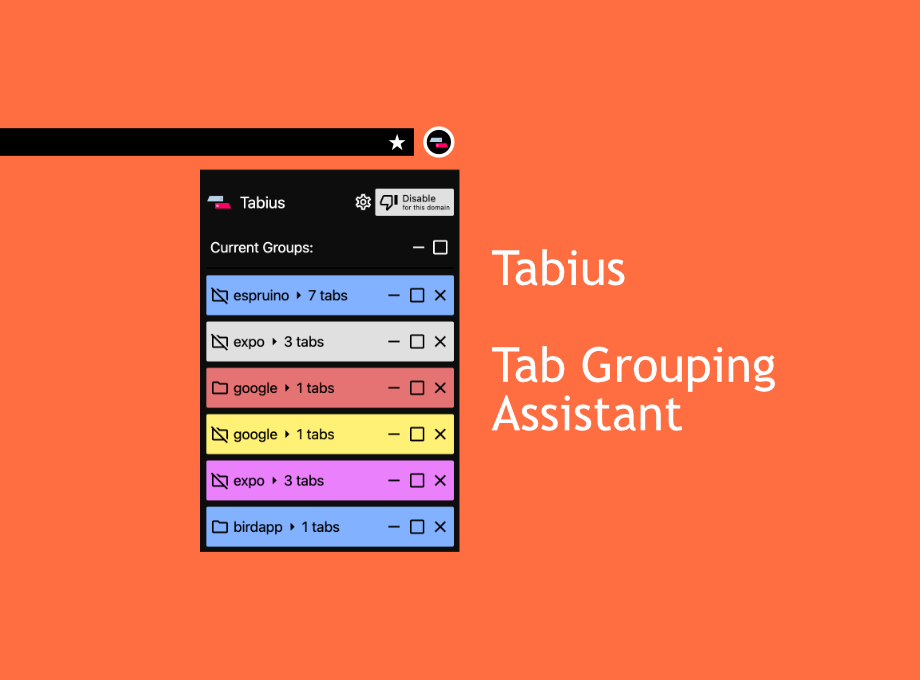
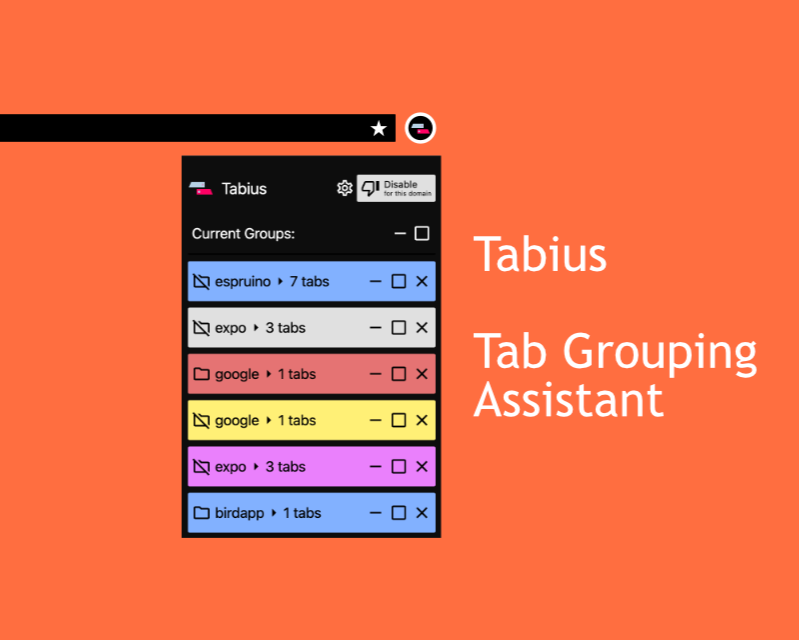
LOTS of changes before deploy

Changed region(s): [[0.0, 0.1562, 0.9612, 0.8438]]

diff --git a/data/carouselData.ts b/data/carouselData.ts
@@ -36,7 +36,7 @@ export const carouselData: CarouselItem[] = [
 	{
 		id: 0,
 		title: "Tabius",
-		heroThumb: "/assets/tabius/tabius-hero.png",
+		heroThumb: "/assets/tabius/tabius.jpeg",
 		icon: "/assets/tabius/tabius-logo.jpeg",
 		description: "Tab Grouping Assistant for Chrome and Microsoft Edge",
 		color: "#B6D1E4",
@@ -102,6 +102,55 @@ export const carouselData: CarouselItem[] = [
 			{
 				path: "/assets/trilby/ts4.webp",
 				description: "this is another screenshot description",
+			},
+		],
+		featurelist: [
+			{
+				title: "See What's Happening in Hacker News",
+				description: "Read the top and latest posts from HN, and many more.",
+			},
+			{
+				title: "Dark Mode",
+				description:
+					"Dark mode for your night time viewing. Can automatically sync with your system.",
+			},
+			{
+				title: "Beautifully Crafted Skins",
+				description:
+					"Six meticulously picked color skins. Pick whichever you like and sync with Light/Dark Mode.",
+			},
+			{
+				title: "Powerful Search Features",
+				description:
+					"Search HN posts powered by Algolia - just like the HN web. Sort by date, and filter by post type.",
+			},
+			{
+				title: "Highly Customizable",
+				description: "Make the app look like the way you want.",
+			},
+			{
+				title: "Read History",
+				description: "Keep track of your last read articles.",
+			},
+			{
+				title: "Profile View",
+				description:
+					"View yours and others' profile and their latest activities.",
+			},
+			{
+				title: "Read Comments in Great Details",
+				description:
+					"Trilby was created with reading comments in mind. If you're like me who uses HN mainly to read comments, Trilby is the app for you.",
+			},
+			{
+				title: "Login Functions",
+				description:
+					"Use features like commenting, upvoting, and posting new stories that require you to login right from the app.",
+			},
+			{
+				title: "Native Links Support",
+				description:
+					"Open and read native HN links within the app itself. Look out for that Orange link.",
 			},
 		],
 	},

diff --git a/src/screens/About.tsx b/src/screens/About.tsx
@@ -3,7 +3,45 @@ import type { Component } from "solid-js";
 import styles from "./HomeScreen.module.css";
 
 const About: Component = () => {
-	return <div class={styles.App}>About</div>;
+	return (
+		<div class={styles.about}>
+			<h1>About Failab</h1>
+			<p>
+				Failab is the home for projects I make during my weekends and holidays.
+				Failab is NOT a registered trade entity. The dream is to convert it to
+				my own company in the future. Hopefully, one day it will generate enough
+				revenue for that.
+			</p>
+			<p>
+				I am currently based in Munich, Germany. I am the sole developer behind
+				these apps. Most of my apps are completely free. Failab apps never
+				collect any data or show ads.
+			</p>
+			<p>
+				The apps I made were created out of my own necessities. As I work full
+				time and have a big wish list for new apps, I do not have enough time to
+				revisit individual apps quite often. That is why I make sure the first
+				release(s) have the most features and the least bugs. Nonetheless, I
+				keep my apps up-to-date. The changelogs are the testament to that.
+			</p>
+			<p>
+				I love hearing your feedback. As I do not get much revenue from the
+				apps, your feedback and kind words are the fuel that keeps me going. If
+				you have anything to share, feel free to{" "}
+				<a href="/contact">contact me.</a>
+			</p>
+			<p>
+				If you want to keep updated and learn about new apps being released, you
+				can also{" "}
+				<a href="https://twitter.com/faisalbahmed" target="_blank">
+					follow me on Twitter
+				</a>{" "}
+				and other <a href="/contact">social networks</a>.
+			</p>
+			<h4>Love</h4>
+			<h4>Faisal</h4>
+		</div>
+	);
 };
 
 export default About;

diff --git a/src/components/Carousel.tsx b/src/components/Carousel.tsx
@@ -49,14 +49,6 @@ export const GetStoreButton: Component<StoreItems> = ({ storeType, link }) => {
 	);
 };
 
-// const getImageSource = (
-// 	url: string
-// ) => {
-
-// 	import image from url
-
-// };
-
 const Carousel: Component = () => {
 	const [selectedAppId, setSelectedAppId] = createSignal<number>(0);
 
@@ -64,7 +56,6 @@ const Carousel: Component = () => {
 
 	const interval = () => {
 		intervalID = setInterval(() => {
-			// console.log("currentID: ", selectedAppId());
 			if (selectedAppId() === carouselData.length - 1) {
 				setSelectedAppId(0);
 			} else {
@@ -91,7 +82,18 @@ const Carousel: Component = () => {
 					class={styles.carouselDetails}
 					style={{ color: carouselData[selectedAppId()].fontColor ?? "white" }}>
 					<h1>{carouselData[selectedAppId()].title}</h1>
-					<p>{carouselData[selectedAppId()].description}</p>
+					<p>
+						{carouselData[selectedAppId()].description} <br />
+						<a
+							style={{
+								color: carouselData[selectedAppId()].fontColor ?? "white",
+							}}
+							href={`/app/${carouselData[
+								selectedAppId()
+							].title.toLowerCase()}`}>
+							Learn more -&gt;{" "}
+						</a>{" "}
+					</p>
 					<div class={styles.storeLinks}>
 						<For each={carouselData[selectedAppId()].storeLinks}>
 							{(item) => GetStoreButton(item)}
@@ -133,7 +135,7 @@ export const StripCard: Component<{
 			onClick={() => setSelectedID && setSelectedID(id)}
 			style={{
 				"background-color":
-					selectedID && selectedID() === id ? "#fae7e1" : "white",
+					selectedID && selectedID() === id ? "#BBDEFB" : "white",
 			}}>
 			<img src={logo} />
 			<div class={styles.stripDetails}>

diff --git a/src/components/Footer.tsx b/src/components/Footer.tsx
@@ -13,8 +13,20 @@ const Footer: Component<{}> = (props) => {
 	return (
 		<div class={styles.container}>
 			<div class={styles.logoContainer}>
-				<img class={styles.socialLogo} src={twitter} />
-				<img class={styles.socialLogo} src={paypal} />
+				<img
+					onClick={() =>
+						window.open("https://twitter.com/failab_eu", "_blank").focus()
+					}
+					class={styles.socialLogo}
+					src={twitter}
+				/>
+				<img
+					onClick={() =>
+						window.open("https://paypal.me/FaisalDE", "_blank").focus()
+					}
+					class={styles.socialLogo}
+					src={paypal}
+				/>
 			</div>
 			<div class={styles.links}>
 				<Link class={styles.link} href="/about">
@@ -23,14 +35,14 @@ const Footer: Component<{}> = (props) => {
 				<Link class={styles.link} href="/contact">
 					Contact
 				</Link>
-				<Link class={styles.link} href="/contact">
+				{/* <Link class={styles.link} href="/contact">
 					Imprint
-				</Link>
+				</Link> */}
 			</div>
 			<div class={styles.foot}>
 				<div class={styles.copyright}>
-					<p>FAILAB {date}</p>
-					<p>MUNICH, DE</p>
+					<p>© FAILAB {date}</p>
+					<p>Made with ♥ in Munich</p>
 				</div>
 				<img src={munich} />
 			</div>

diff --git a/src/components/SocialButton.tsx b/src/components/SocialButton.tsx
@@ -2,12 +2,25 @@ import type { Component } from "solid-js";
 
 import styles from "./SocialButton.module.css";
 
-const SocialButton: Component<{ title: string; color: string }> = ({
-	title,
-	color,
-}) => {
+const SocialButton: Component<{
+	title: string;
+	color: string;
+	toExternal?: string;
+	toInternal?: string;
+}> = ({ title, color, toExternal, toInternal }) => {
+	function handleClick() {
+		if (toExternal) {
+			window.open(toExternal, "_blank").focus();
+			return;
+		}
+		if (toInternal) window.location = `/${toInternal}`;
+	}
+
 	return (
-		<div class={styles.socialButton} style={{ "border-color": color }}>
+		<div
+			class={styles.socialButton}
+			onclick={handleClick}
+			style={{ "border-color": color }}>
 			<p style={{ color: color }}>{title}</p>
 		</div>
 	);

diff --git a/src/components/Footer.module.css b/src/components/Footer.module.css
@@ -8,15 +8,15 @@
 	flex-direction: row;
 	justify-content: center;
 }
-.socialLogo > img {
-	fill: aliceblue;
+.logoContainer > img {
+	cursor: pointer;
 }
 .link {
 	color: gray;
 	text-decoration: none;
 }
-.link:nth-child(n + 1) {
-	padding-right: 5px;
+.link:nth-child(n + 2) {
+	padding-left: 10px;
 }
 .links {
 	display: flex;
@@ -36,6 +36,11 @@
 .foot > img {
 	max-width: 95vw;
 }
+.copyright {
+	display: flex;
+	flex-direction: column;
+	align-items: center;
+}
 
 .copyright > p {
 	color: gray;
@@ -49,5 +54,9 @@
 		flex-direction: row;
 		justify-content: space-between;
 		/* padding: 5vw; */
+	}
+	.copyright {
+		align-items: unset;
+		align-self: end;
 	}
 }

diff --git a/src/screens/HomeScreen.tsx b/src/screens/HomeScreen.tsx
@@ -17,8 +17,12 @@ const HomeScreen: Component = () => {
 						Hobby projects + commercial app quality = Failab Apps
 					</p>
 					<div class={styles.socialContainer}>
-						<SocialButton title="Follow Us" color="blue" />
-						<SocialButton title="Contact" color="green" />
+						<SocialButton
+							title="Follow Us"
+							color="blue"
+							toExternal="https://twitter.com/failab_eu"
+						/>
+						<SocialButton title="Contact" color="green" toInternal="contact" />
 					</div>
 				</div>
 			</div>

diff --git a/src/components/Header.module.css b/src/components/Header.module.css
@@ -2,14 +2,13 @@
 	display: flex;
 	flex: 1;
 	flex-direction: row;
-	/* background-color: beige; */
 	height: 10vh;
 	justify-content: center;
 }
 
 .headerButton {
 	display: flex;
-	padding: 10px;
+	padding: 0 10px 0 10px;
 	flex-direction: row;
 	justify-content: center;
 	align-items: center;
@@ -39,9 +38,7 @@
 .stripCard {
 	display: flex;
 	flex-direction: row;
-	/* width: 40vw; */
-	/* background-color: beige; */
-	padding: 10px;
+	padding: 0 10px 0 10px;
 	align-items: center;
 	cursor: pointer;
 }

diff --git a/src/screens/HomeScreen.module.css b/src/screens/HomeScreen.module.css
@@ -33,7 +33,7 @@
 	flex-direction: row;
 	/* background-color: #6b69d6; */
 	width: 100%;
-	min-height: 50vh;
+	/* min-height: 50vh; */
 	align-items: center;
 	justify-content: center;
 	/* padding-top: 25px;
@@ -59,6 +59,10 @@
 	/* padding-top: 25px;
 	padding-bottom: 25px; */
 }
+.about {
+	padding: 5vw;
+	margin: 0 auto;
+}
 
 /* desktop breakpoint */
 @media screen and (min-width: 40em) {
@@ -83,5 +87,8 @@
 
 	.socialContainer {
 		justify-content: flex-start;
+	}
+	.about {
+		max-width: 67vw;
 	}
 }

diff --git a/src/components/Features.tsx b/src/components/Features.tsx
@@ -1,5 +1,6 @@
 import { Component, For } from "solid-js";
 import { CarouselItem, Feature } from "../../data/carouselData";
+import { headerColors } from "../../data/colors";
 
 import styles from "./Features.module.css";
 
@@ -12,7 +13,7 @@ const Features: Component<{ features: Feature[] }> = ({ features }) => {
 						index={index() + 1}
 						title={item.title}
 						description={item.description}
-						color="blue"
+						color={headerColors[index() + 1]}
 					/>
 				)}
 			</For>

diff --git a/src/screens/Contact.tsx b/src/screens/Contact.tsx
@@ -19,6 +19,11 @@ const Contact: Component = () => {
 				(Author)
 			</p>
 			<p>
+				<a href="https://linkedin.com/in/faisalbin" target="_blank">
+					LinkedIn
+				</a>
+			</p>
+			<p>
 				<a href="https://faisalbin.com" target="_blank">
 					Personal Portfolio
 				</a>

diff --git a/src/components/Feedback.tsx b/src/components/Feedback.tsx
@@ -5,6 +5,7 @@ import styles from "./Feedback.module.css";
 const Feedback: Component = () => {
 	return (
 		<div class={styles.container}>
+			<h2>What people are saying ☺</h2>
 			<div class={styles.topContainer}>
 				<FeedbackCard
 					name="Benjamin -> Tabius"
